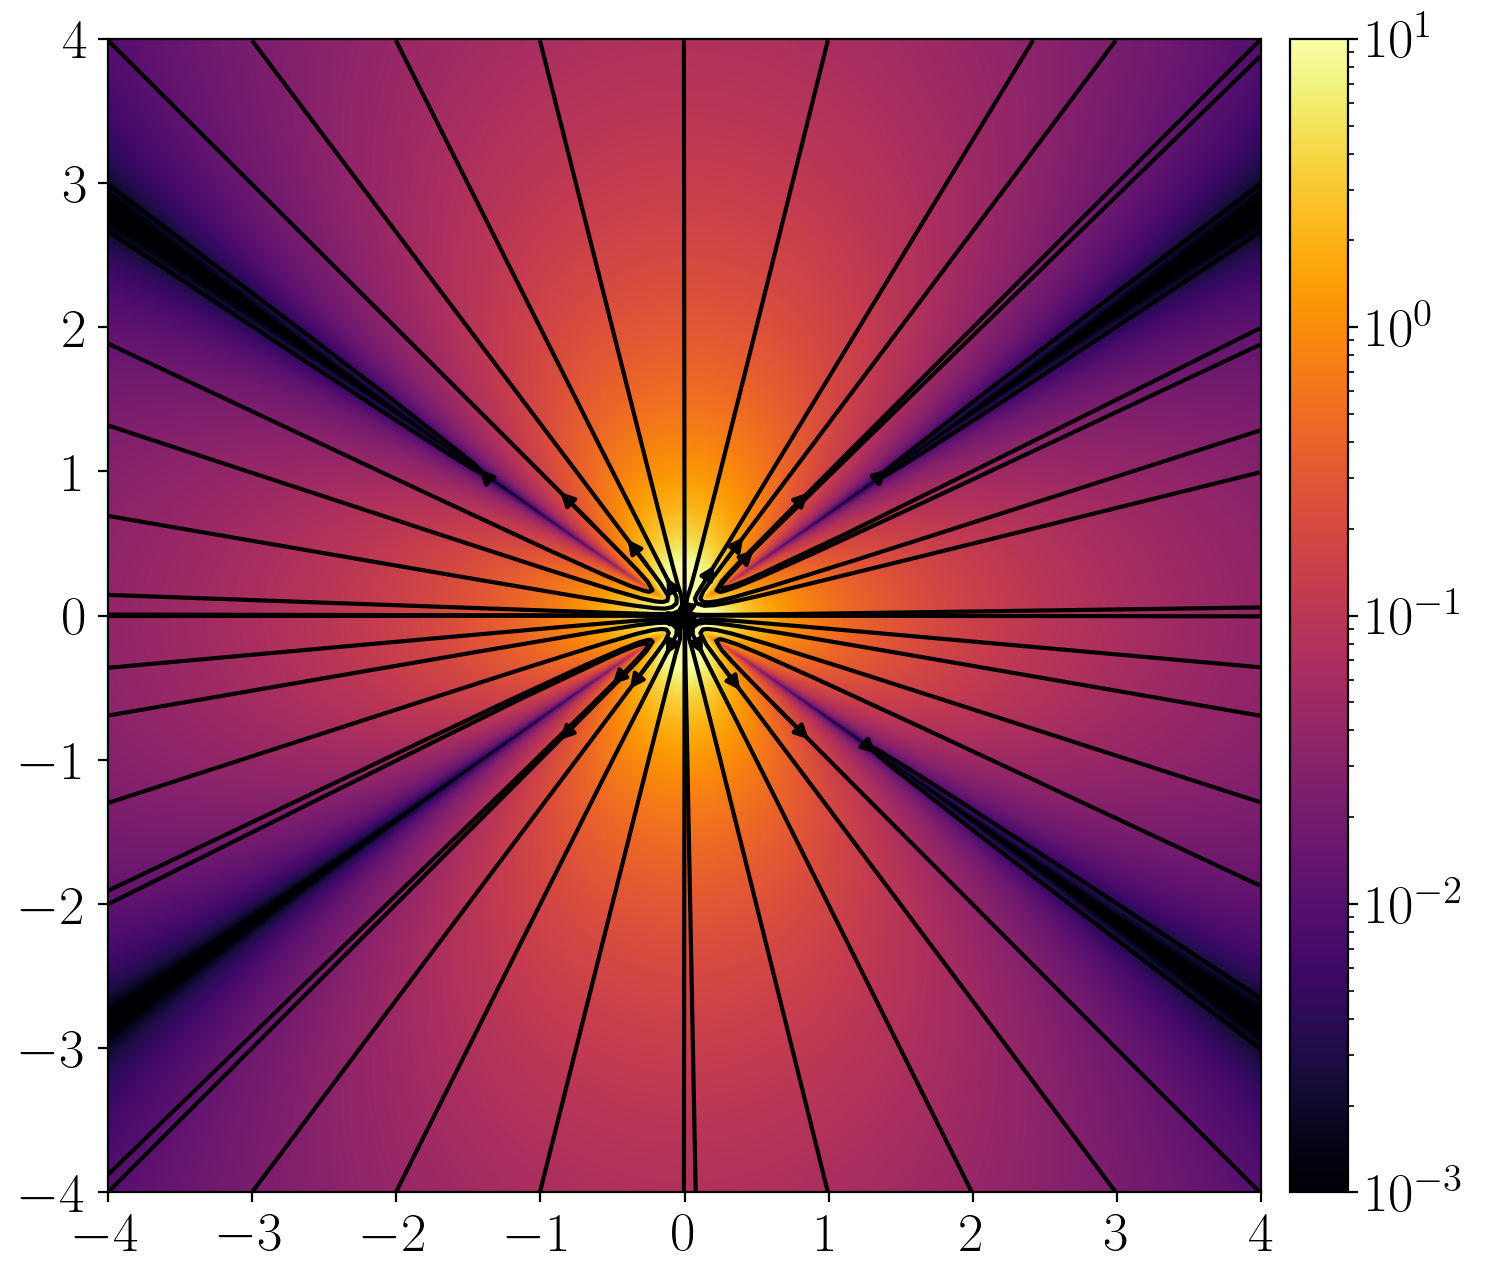
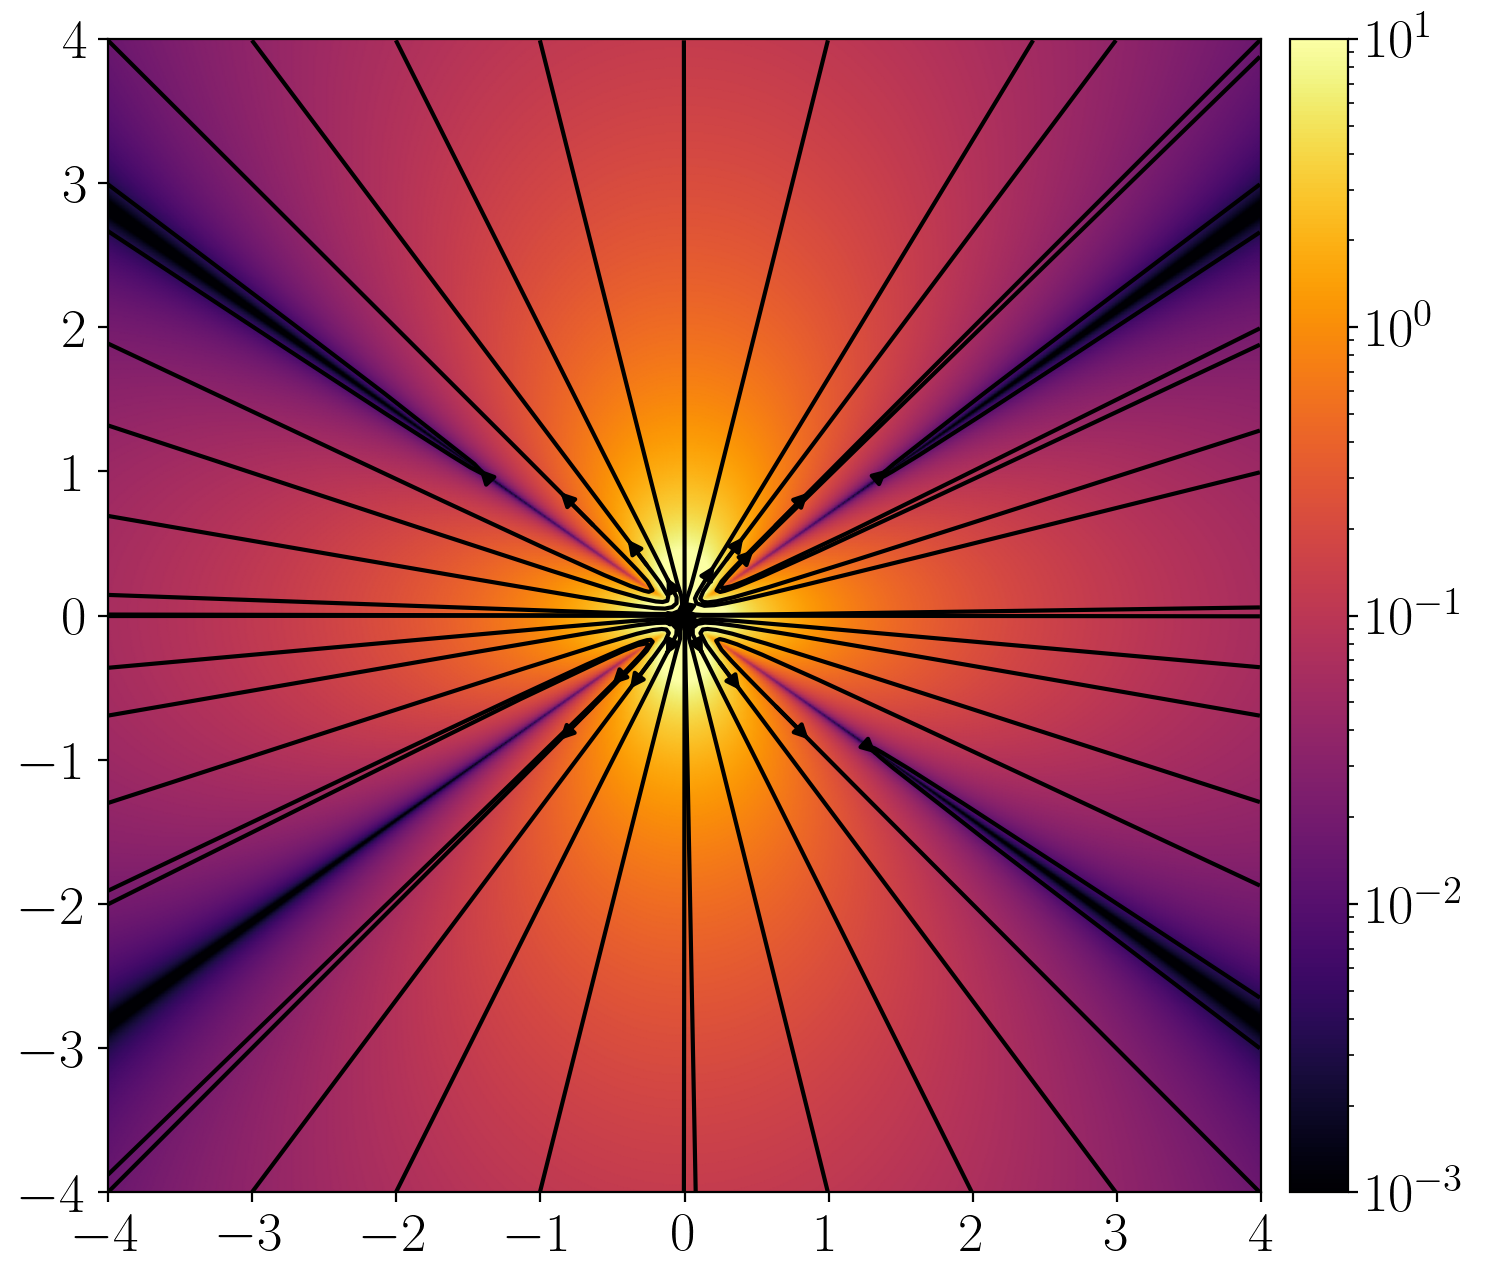
6.07

diff --git a/MicroWorld/Stokes_2D.py b/MicroWorld/Stokes_2D.py
@@ -72,6 +72,7 @@ class Equations2D:
         u0, v0 =Idf[:,np.newaxis,np.newaxis]/modr+rrTF/modr**3.
         self.u += u0*coef
         self.v += v0*coef
+        self.arrows.append([r0[0], r0[1], F[0], F[1]])
 
 
 
@@ -210,7 +211,7 @@ class Equations2D:
             Fpar: direction and magnitude of the force, 
                     only parallel component will be considered
         """
-        Frel = np.array([Fpar[1], 0])
+        Frel = np.array([Fpar[0], 0])
         #real system
         self.stokeslet(r0, Frel)
         #image system
@@ -224,12 +225,11 @@ class Equations2D:
             Fpar: direction and magnitude of the force, 
                     only perpendicular component will be considered
         """
-        Frel = np.array([0, Fper[0]])
+        Frel = np.array([0, Fper[1]])
         #real system
         self.stokeslet(r0, Frel)
         #image system
         self.stokeslet(-r0, -Frel)
-        self.arrows.append([r0[0], r0[1], Frel[0], Frel[1]])
 
     def hard_wall_par(self, r0: np.ndarray, Fpar: np.ndarray):
         """
@@ -242,16 +242,16 @@ class Equations2D:
         rim =np.array([r0[0], -r0[1]])
         coef1 = 2*h
         coef2 = -2*h**2
-        d = np.array([1,0])
-        Frel = np.array([1, 0])*Fpar[0]
-        Fadd = np.array([0, 1])
+        d = np.array([0.00001,0])
+        Frel = np.array([Fpar[0], 0])
+        ey = np.array([0, 1])
+        ex = np.array([1, 0])
         #--real
         self.stokeslet(r0, Frel) 
         #--image
-        self.stokeslet(rim, Frel, coef=-1 ) 
-        self.dipole(rim, Fadd, d, coef=coef1)
-        self.source_dipole(rim, Frel, coef=coef2)
-        self.arrows.append([r0[0], r0[1], Frel[0], Frel[1]])
+        self.stokeslet(rim, ex, coef=-1*Fpar[0] ) 
+        self.dipole(rim, ey, ex, coef=coef1*Fpar[0])
+        self.source_dipole(rim, ex, coef=coef2*Fpar[0])
 
     def hard_wall_per(self, r0: np.ndarray, Fper: np.ndarray):
         """
@@ -262,17 +262,19 @@ class Equations2D:
         """
         h = r0[1]
         rim =np.array([r0[0], -r0[1]])
+        ey = np.array([0, 1])
+        ex = np.array([1, 0])
         coef0 = -1
         coef1 = -2*h
         coef2 = 2*h**2
-        d = np.array([0, 1])
-        Frel = np.array([0, Fper[0]])
+        d = np.array([0, 0.0001])
+        Frel = np.array([0, Fper[1]])
         #--real system
         self.stokeslet(r0, Frel) 
         #--image system
-        self.stokeslet(rim, Frel, coef=coef0 ) 
-        self.dipole(rim, Frel, d, coef=coef1)
-        self.source_dipole(rim, Frel, coef=coef2)
+        self.stokeslet(rim, ey, coef=coef0*Fper[1]) 
+        self.dipole(rim, ey, ey, coef=coef1*Fper[1])
+        self.source_dipole(rim, ey, coef=coef2*Fper[1])
     
     def totality_par(self, r0, Fpar: np.ndarray, ratio: float):
         """
@@ -287,15 +289,15 @@ class Equations2D:
         coef0 = (1-ratio)/(1+ratio)
         coef1 = (2*ratio*h)/(ratio+1)
         coef2 = -1*(2*ratio*h**2)/(ratio + 1)
-        d = np.array([1,0])
-        Frel = np.array([1, 0])*Fpar[0]
-        Fadd = np.array([0, 1])
+        Frel = np.array([Fpar[0], 0])
+        ex = np.array([1, 0])
+        ey = np.array([0, 1])
         #--real system
         self.stokeslet(r0, Frel) 
         #--image system
-        self.stokeslet(rim, Frel, coef=coef0 ) 
-        self.dipole(rim, Fadd, d, coef=coef1)
-        self.source_dipole(rim, Frel, coef=coef2)
+        self.stokeslet(rim, ex, coef=coef0*Fpar[0]) 
+        self.dipole(rim, ey, ex, coef=coef1*Fpar[0])
+        self.source_dipole(rim, ex, coef=coef2*Fpar[0])
     
     def totality_per(self, r0, Fper, ratio):
         """
@@ -310,14 +312,14 @@ class Equations2D:
         coef0 = -1
         coef1 = -(2*ratio*h)/(ratio+1)
         coef2 = (2*ratio*h**2)/(ratio + 1)
-        d = np.array([0, 1])
-        Frel = np.array([0, Fper[0]])
+        Frel = np.array([0, Fper[1]])
+        ey = np.array([0, 1])
         #--real system
         self.stokeslet(r0, Frel) 
         #--image system
-        self.stokeslet(rim, Frel, coef=coef0 ) 
-        self.dipole(rim, Frel, d, coef=coef1)
-        self.source_dipole(rim, Frel, coef=coef2)
+        self.stokeslet(rim, ey, coef=coef0*Fper[1]) 
+        self.dipole(rim, ey, ey, coef=coef1*Fper[1])
+        self.source_dipole(rim, ey, coef=coef2*Fper[1])
 
     def streamlines(self, xstart: np.ndarray, ystart: np.ndarray, mesh=False, direction=False, export=False, title='pass'):
         """
@@ -491,12 +493,18 @@ class Equations2D:
             ax.set_xlim(self.a, self.b)
             ax.set_ylim(self.a, self.b)
             ax.set_aspect('equal')
-            ax.set_xticks(np.arange(self.a, self.b + 1, 1))
-            ax.set_yticks(np.arange(self.a, self.b + 1, 1))
+            ax.set_xticks(np.arange(self.a, self.b + 1, 2))
+            ax.set_yticks(np.arange(self.a, self.b + 1, 2))
             
         elif self.flag == "wall":
             fig = plt.figure(figsize=(8,4),facecolor="w")
             ax = plt.axes()
+            q = self.a + 0.4
+            ax.set_xlim(q, self.b)
+            ax.set_ylim(-0.1, self.b)
+            ax.set_aspect('equal')
+            ax.set_xticks(np.arange(q, self.b + 1, 1))
+            ax.set_yticks(np.arange(0, self.b + 1, 1))
         else:
             print("Error in boundary conditions.")
 

diff --git a/MicroWorld/main.py b/MicroWorld/main.py
@@ -1,11 +1,14 @@
 import numpy as np
 import Stokes_2D
-r01 = np.array([0, 0.5001]) #defining positions of the force
-
-F1 = np.array([1, 1]) #defining forces values
-d = np.array([0, 1])
-singularity1 = Stokes_2D.Equations2D(-4, 4, 0.01, "free") #creating an object
-singularity1.free_surf_per(r01, F1) #calling first stokeslet
-
-singularity1.plot( title="free_per.png") #plotting and saving
+r01 = np.array([0, -0.5001]) #defining positions of the force
+F1 = np.array([0, 1]) #defining forces values
+r02 = np.array([-1, 0.5001])  #defining positions of the force
+F2 = np.array([0, -0.5]) #defining forces values
+r03 = np.array([1, 0.5001])  #defining positions of the force
+F3 = np.array([0, -0.5])
+singularity1 = Stokes_2D.Equations2D(-10, 10, 0.02, "free") #creating an object
+singularity1.stokeslet(r01, F1)#ok
+singularity1.stokeslet(r02, F2)#ok
+singularity1.stokeslet(r03, F3)#ok
+singularity1.plot(direction=True, title="alga_mean_dipole.png") #plotting and saving
 singularity1.show() #showing plot
